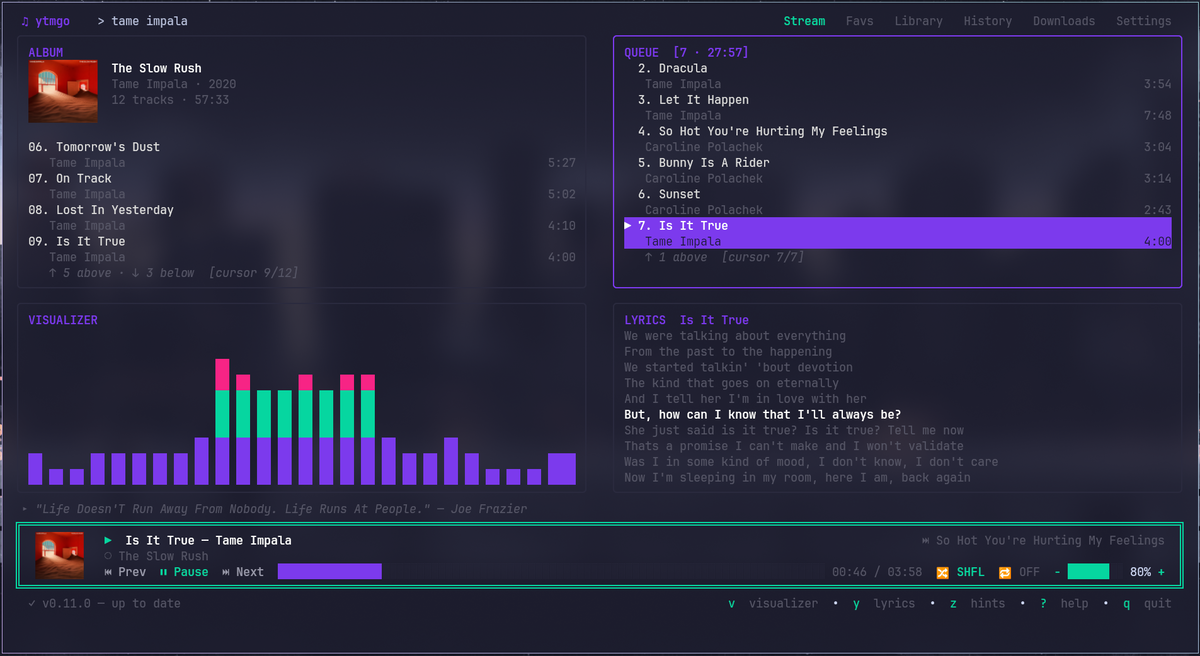
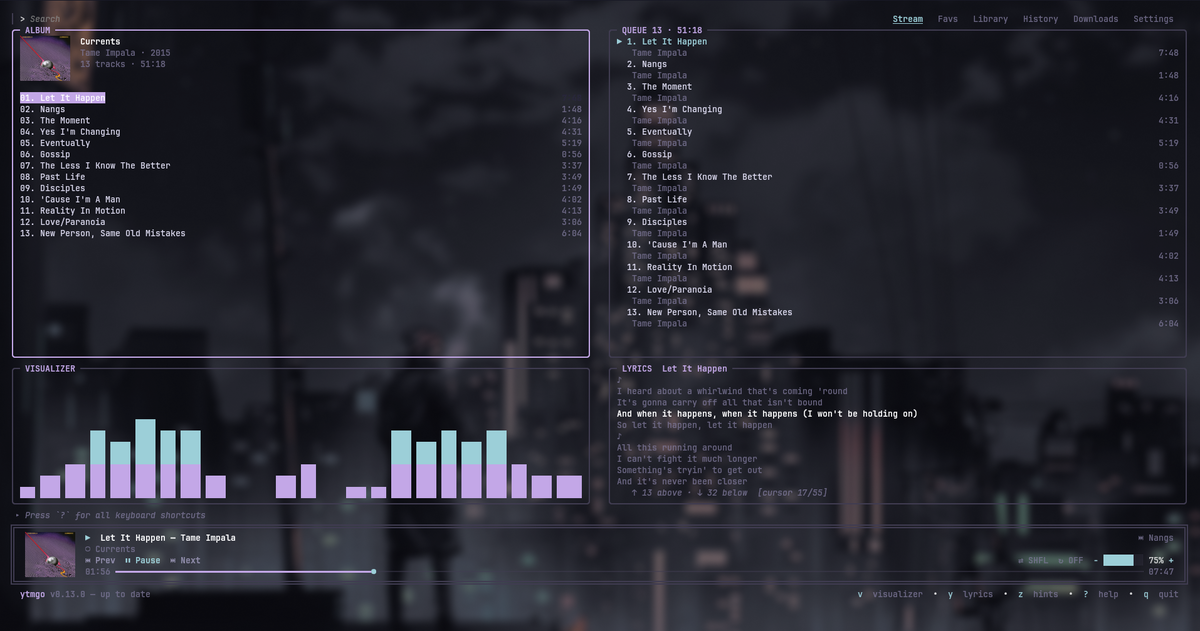
Put the screenshot in the hero, and let it open full size
The hero led with the app icon and kept the screenshot further down the
page. The capture is the more useful thing to see first, so it takes
the hero's image slot on the right and the icon stays in the nav bar,
where it already identifies the site. The capture itself is refreshed
to one showing the current layout.

That slot is built for a logo: a fixed square of about 320px with the
image absolutely centred in it. A wide terminal capture needs the width
instead, so the hero widens, the image flows in the layout rather than
being centred in a fixed box, and the blurred blob behind it is
dropped. Below the two-column breakpoint the image stacks above the
text, where the container's fixed height would otherwise leave it
overlapping the nav bar.

Clicking it opens it full size, dismissed by clicking again or pressing
Escape. That is a dozen lines against the DOM rather than a dependency,
delegated from document so it survives client-side navigation, and
guarded on `document` because enhanceApp also runs during the static
build.

diff --git a/docs/.vitepress/theme/custom.css b/docs/.vitepress/theme/custom.css
@@ -44,3 +44,111 @@
   font-weight: 600;
   color: var(--vp-c-brand-1);
 }
+
+/* The hero's image slot is built for a logo: a fixed square around
+   320px, centred in its half of the row. A 1200x656 terminal capture
+   needs the width instead, so the hero becomes a wider two-column
+   layout and the image fills its side rather than being letterboxed
+   inside a square. */
+@media (min-width: 960px) {
+  .VPHero .container {
+    max-width: 1280px;
+  }
+
+  .VPHero .main {
+    max-width: 460px;
+  }
+
+  .VPHero .image {
+    flex-grow: 1;
+    min-width: 0;
+  }
+
+  .VPHero .image-container {
+    width: 100%;
+    height: auto;
+    max-width: none;
+    max-height: none;
+    transform: none;      /* the default nudges it up and left */
+    padding: 0;
+    margin: 0;
+  }
+
+  .VPHero .image-bg {
+    display: none;        /* the blurred blob behind the logo */
+  }
+}
+
+/* At every width the capture flows in the layout rather than being
+   absolutely centred in a fixed-size box, which is how the default
+   positions a square logo. The container has to give up its fixed
+   height to match, or the image sits at the top of an empty 320px box
+   and collides with the nav on a phone. */
+.VPHero .image-container {
+  height: auto;
+}
+
+.VPHero .image-src {
+  position: static;
+  width: 100%;
+  max-width: 100%;
+  max-height: none;
+  border-radius: 10px;
+  border: 1px solid var(--vp-c-divider);
+  box-shadow: 0 16px 44px -14px rgb(0 0 0 / 60%);
+  transform: none;
+  cursor: zoom-in;
+  transition: border-color 0.2s;
+}
+
+/* Below the two-column breakpoint the image stacks above the text, so
+   it needs its own breathing room instead of the offsets the default
+   layout applies to a logo. */
+@media (max-width: 959px) {
+  .VPHero .image {
+    margin: 0 auto 32px;
+    max-width: 560px;
+    padding: 0 12px;
+  }
+
+  .VPHero .image-bg {
+    display: none;
+  }
+}
+
+.VPHero .image-src:hover {
+  border-color: var(--vp-c-brand-1);
+}
+
+/* ── Lightbox ──────────────────────────────────────────────────────
+   Click the capture to read it at full size. Plain DOM, no library:
+   one overlay, dismissed by clicking it or pressing Escape. */
+.ytmgo-lightbox {
+  position: fixed;
+  inset: 0;
+  z-index: 200;
+  display: flex;
+  align-items: center;
+  justify-content: center;
+  padding: 4vmin;
+  background: rgb(0 0 0 / 82%);
+  backdrop-filter: blur(4px);
+  cursor: zoom-out;
+  animation: ytmgo-fade 0.18s ease-out;
+}
+
+.ytmgo-lightbox img {
+  max-width: 100%;
+  max-height: 100%;
+  border-radius: 8px;
+  box-shadow: 0 24px 70px -20px rgb(0 0 0 / 80%);
+}
+
+@keyframes ytmgo-fade {
+  from { opacity: 0 }
+  to   { opacity: 1 }
+}
+
+@media (prefers-reduced-motion: reduce) {
+  .ytmgo-lightbox { animation: none }
+}

diff --git a/docs/.vitepress/theme/index.ts b/docs/.vitepress/theme/index.ts
@@ -1,4 +1,59 @@
 import DefaultTheme from 'vitepress/theme'
+import type { Theme } from 'vitepress'
 import './custom.css'
 
-export default DefaultTheme
+// Clicking the terminal capture opens it full size. Written against the
+// DOM rather than pulled from a package: it is one overlay and two ways
+// to dismiss it, and a dependency for that would be a poor trade.
+//
+// Guarded on `document` because enhanceApp also runs during the static
+// build, where there is no DOM to attach anything to.
+function mountLightbox() {
+  if (typeof document === 'undefined') return
+
+  const open = (src: string, alt: string) => {
+    const box = document.createElement('div')
+    box.className = 'ytmgo-lightbox'
+    // Announced to assistive tech, and focusable so Escape reaches it
+    // even when the click came from a mouse.
+    box.setAttribute('role', 'dialog')
+    box.setAttribute('aria-modal', 'true')
+    box.setAttribute('aria-label', alt || 'Screenshot')
+    box.tabIndex = -1
+
+    const img = document.createElement('img')
+    img.src = src
+    img.alt = alt
+    box.appendChild(img)
+
+    const close = () => {
+      box.remove()
+      document.removeEventListener('keydown', onKey)
+    }
+    const onKey = (e: KeyboardEvent) => {
+      if (e.key === 'Escape') close()
+    }
+
+    box.addEventListener('click', close)
+    document.addEventListener('keydown', onKey)
+    document.body.appendChild(box)
+    box.focus()
+  }
+
+  // One delegated listener, so it keeps working across client-side
+  // navigation without re-binding on every route change.
+  document.addEventListener('click', (e) => {
+    const el = e.target as HTMLElement | null
+    if (!el || el.tagName !== 'IMG') return
+    if (!el.closest('.VPHero .image')) return
+    e.preventDefault()
+    open((el as HTMLImageElement).src, (el as HTMLImageElement).alt)
+  })
+}
+
+export default {
+  extends: DefaultTheme,
+  enhanceApp() {
+    mountLightbox()
+  },
+} satisfies Theme

diff --git a/docs/.vitepress/config.ts b/docs/.vitepress/config.ts
@@ -18,7 +18,7 @@ export default defineConfig({
     ['meta', { property: 'og:description', content: 'Search, download, queue, and play music, all from the keyboard, inside your terminal.' }],
     ['meta', { property: 'og:image', content: 'https://raw.githubusercontent.com/anas1412/ytmgo/main/ytmgo.png' }],
     ['meta', { property: 'og:image:width', content: '1200' }],
-    ['meta', { property: 'og:image:height', content: '656' }],
+    ['meta', { property: 'og:image:height', content: '631' }],
     ['meta', { name: 'twitter:card', content: 'summary_large_image' }],
     ['meta', { name: 'twitter:image', content: 'https://raw.githubusercontent.com/anas1412/ytmgo/main/ytmgo.png' }],
   ],

diff --git a/docs/index.md b/docs/index.md
@@ -6,8 +6,8 @@ hero:
   text: Your music. Your terminal.
   tagline: Search, download, queue, and play music, all from the keyboard, inside your terminal. No browser, no bloat, no nonsense.
   image:
-    src: /ytmgo-icon.png
-    alt: ytmgo
+    src: https://raw.githubusercontent.com/anas1412/ytmgo/main/ytmgo.png
+    alt: ytmgo running in a terminal
   actions:
     - theme: brand
       text: Install
@@ -53,12 +53,6 @@ features:
     title: Eleven themes
     details: Borrow your terminal's own colours, use ytmgo's, or pick a full scheme such as gruvbox, nord, dracula or catppuccin.
 ---
-
-<div style="max-width:1152px;margin:64px auto 0;padding:0 24px">
-
-![ytmgo running in a terminal](https://raw.githubusercontent.com/anas1412/ytmgo/main/ytmgo.png)
-
-</div>
 
 ## Install in one line
 
